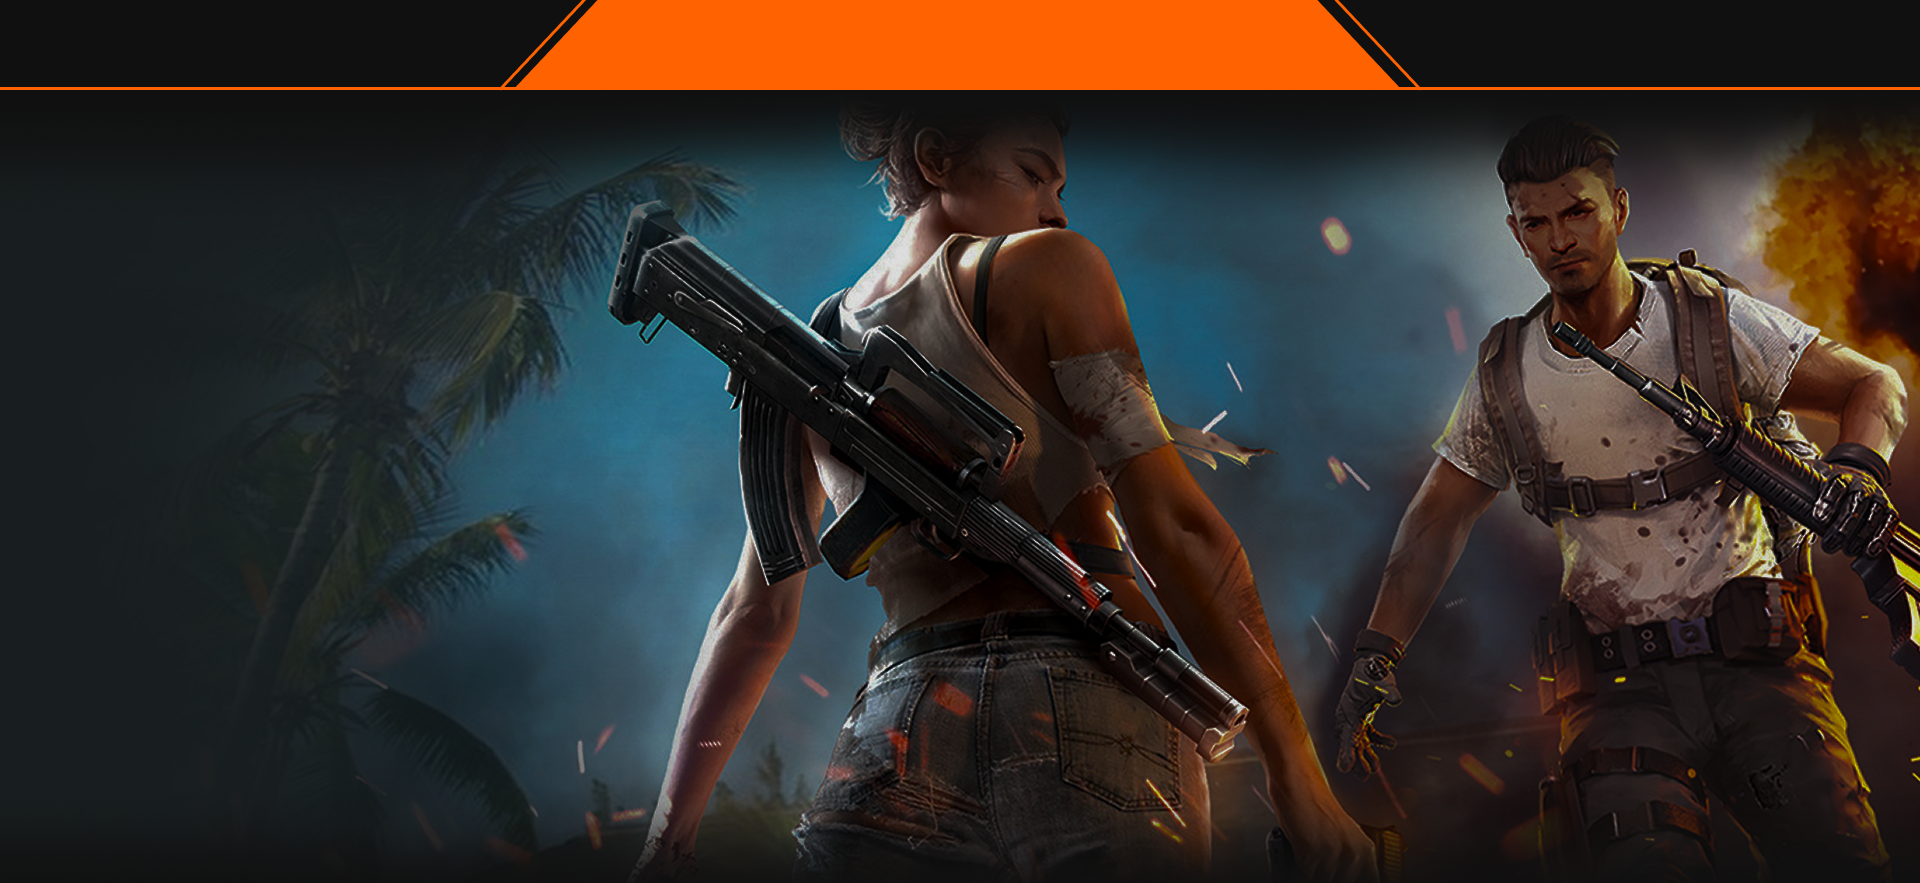
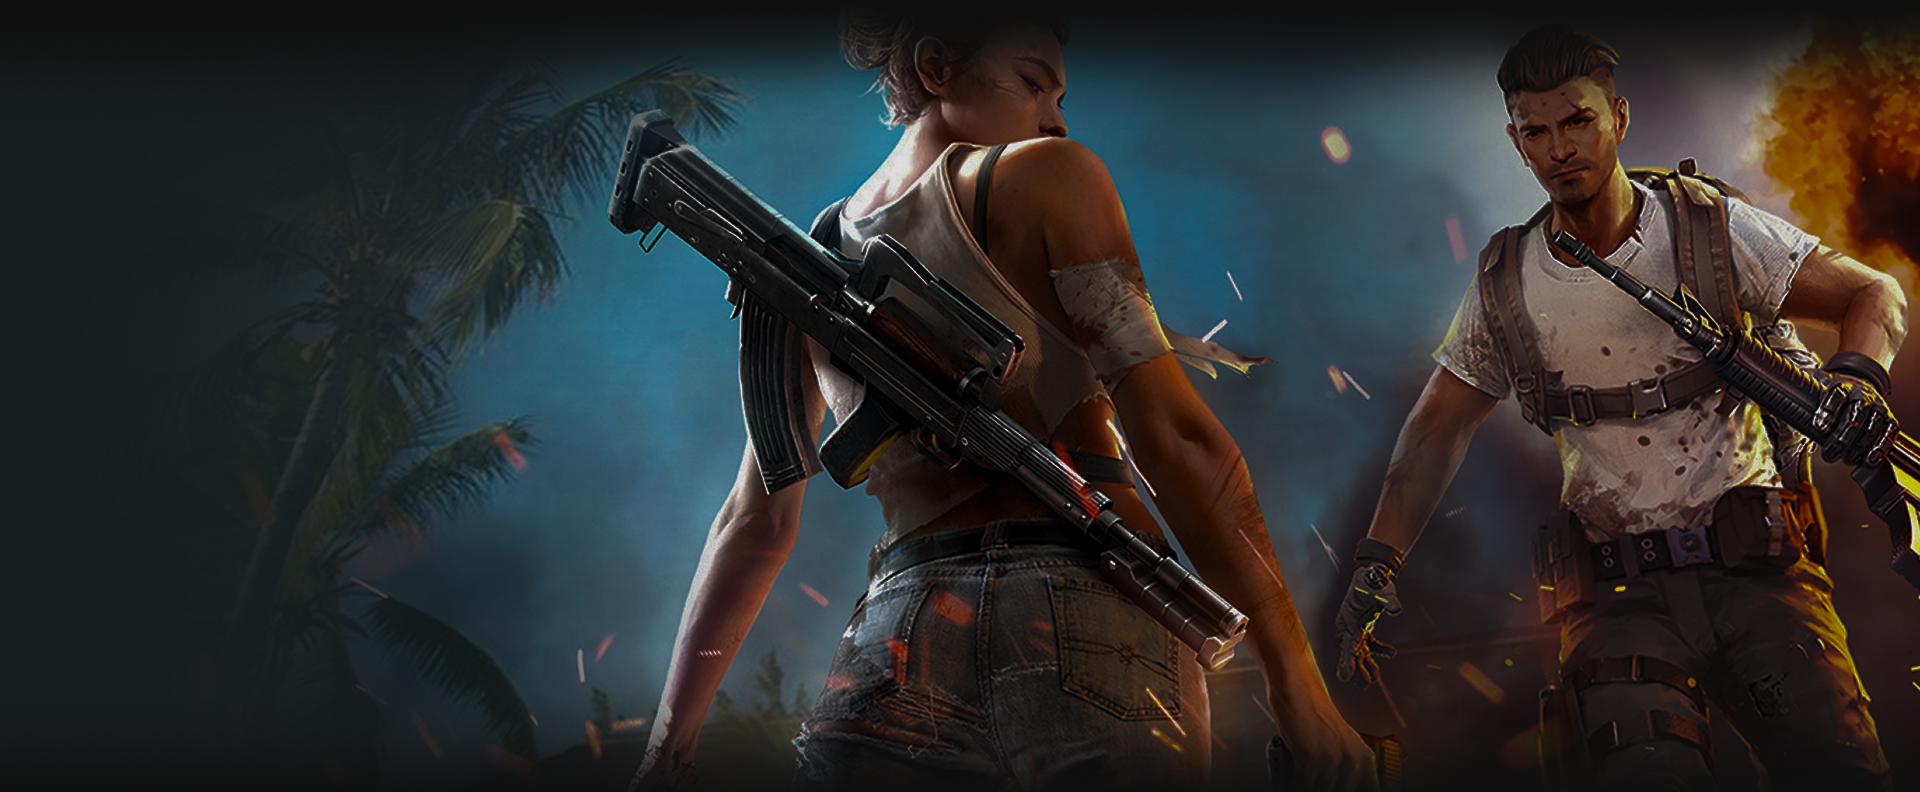
add highlights and hero img fixed

diff --git a/style.css b/style.css
@@ -119,12 +119,13 @@
   
   /* ===== HERO ===== */
   .hero{
+    margin-top: 100px;
     min-height:88vh;
     display:flex;
     align-items:center;
     justify-content:center;
     position:relative;
-    padding-top:90px; /* espaço para header fixo */
+    padding-top: 90px; /* espaço para header fixo */
     background-image: url('./img/hero.png');
     background-size:cover;
     background-position:center;
@@ -134,7 +135,14 @@
     inset:0;
     background:linear-gradient(180deg, rgba(0,0,0,0.65), rgba(0,0,0,0.8));
   }
-  .hero-inner{position:relative; text-align:center; z-index:2; padding:40px 10px}
+  .hero-inner{
+    position:relative;
+    text-align:center; 
+    z-index:2; 
+    padding:40px 10px;
+    bottom: 100px;
+
+  }
   .hero-title{
     font-weight:900;
     letter-spacing:4px;
@@ -229,7 +237,7 @@
     margin-bottom:10px;
     background: linear-gradient(180deg, rgba(255,255,255,0.01), rgba(255,255,255,0.005));
   }
-  .product-img{max-width:70%; height:auto; display:block}
+  .product-img{max-width:60%; height:auto; display:block}
   
   /* MATCHES */
   .matches-row{
@@ -254,17 +262,15 @@
   .score{font-weight:900; font-size:1.4rem; padding:0 8px}
   
   /* HIGHLIGHTS */
-  .highlights-grid{
-    display:grid;
-    grid-template-columns: 2fr 1fr;
-    gap:18px;
-  }
-  .highlight{
-    background: linear-gradient(180deg, rgba(255,255,255,0.02), rgba(255,255,255,0.01));
-    min-height:140px;
-    border-radius:10px;
-    border:2px solid rgba(255,255,255,0.03);
-  }
+  .destaques{
+    margin: 2rem;
+    text-align: center;
+    display: flex;
+    flex-direction: column;
+    align-items: center;
+    gap: 3rem;
+    color: #fff;
+}
   .highlight.large{min-height:260px}
   .highlight.small{min-height:120px}
   

diff --git a/index.html b/index.html
@@ -20,7 +20,7 @@
       </div>
 
       <nav class="nav" id="nav">
-        <a class="nav-link active" href="#home">Início</a>
+        <a class="nav-link" href="#home">Início</a>
         <a class="nav-link" href="#sobre">Sobre nós</a>
         <a class="nav-link" href="#equipe">Time</a>
         <a class="nav-link" href="#produtos">Produtos</a>
@@ -156,7 +156,7 @@
 
           <article class="product-card">
             <div class="product-frame">
-              <img src="./img/Group 253.png" alt="Capinha de celular" class="product-img">
+              <img src="./img/capa.png" alt="Capinha de celular" class="product-img">
             </div>
             <h4>Case Raikab</h4>
             <p class="price">R$ 14,99</p>
@@ -209,17 +209,11 @@
     </section>
 
     <!-- DESTAQUES -->
-    <section id="destaques" class="section highlights">
-      <div class="container">
-        <h2 class="section-title center">Destaques</h2>
-        <div class="highlights-grid">
-          <div class="highlight large"></div>
-          <div class="highlight small"></div>
-          <div class="highlight small"></div>
-        </div>
-      </div>
-    </section>
-  </main>
+    <section class="destaques">
+      <h2>Destaques Recentes</h2>
+      <iframe width="700" height="405" src="https://www.youtube.com/embed/rxTL3IFsAKA?si=-fqS0dBR1YjFM_nz" title="YouTube video player" frameborder="0" allow="accelerometer; autoplay; clipboard-write; encrypted-media; gyroscope; picture-in-picture; web-share" referrerpolicy="strict-origin-when-cross-origin" allowfullscreen></iframe>
+  </section>
+  <footer>
 
   <!-- FOOTER -->
   <footer class="site-footer">
